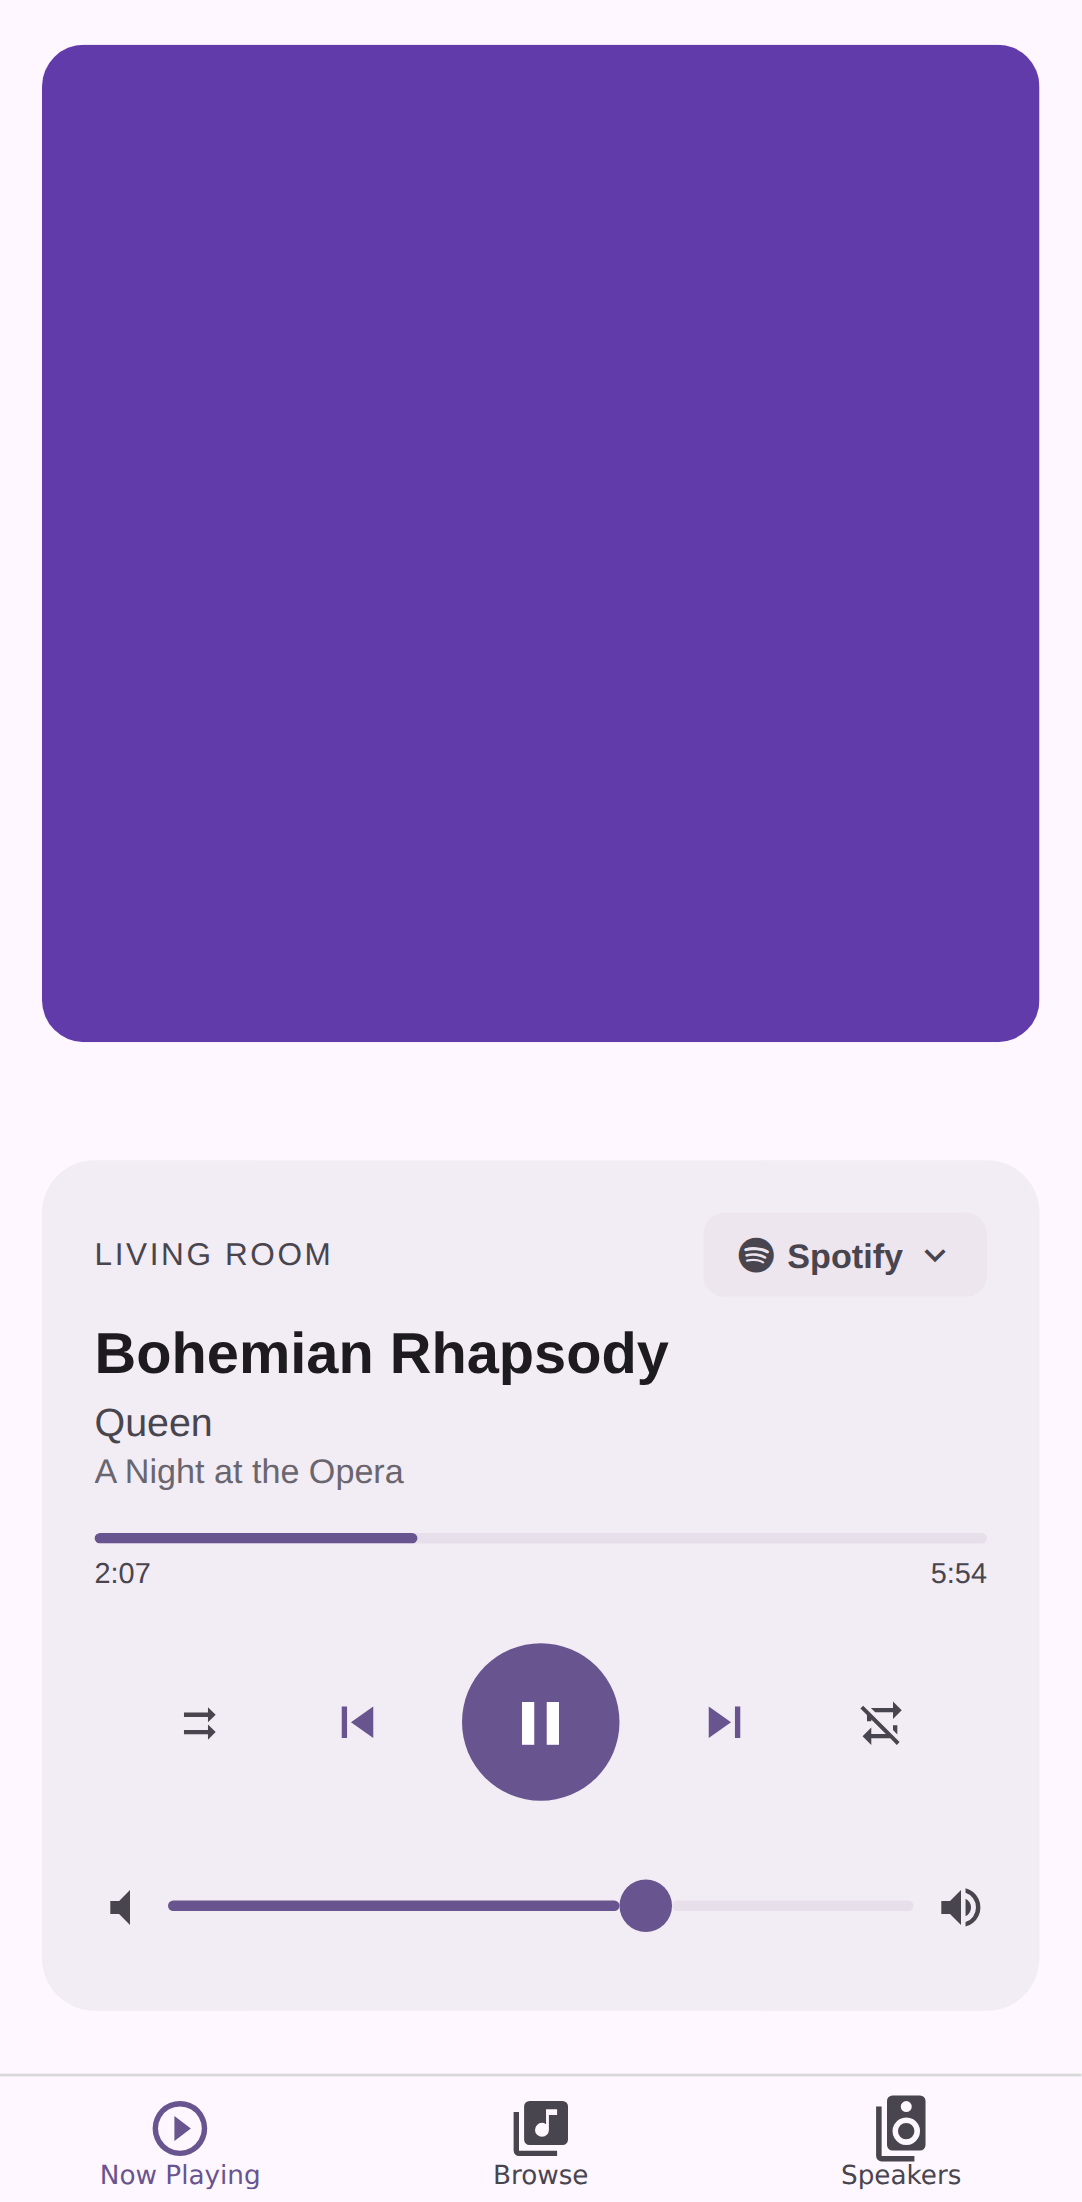
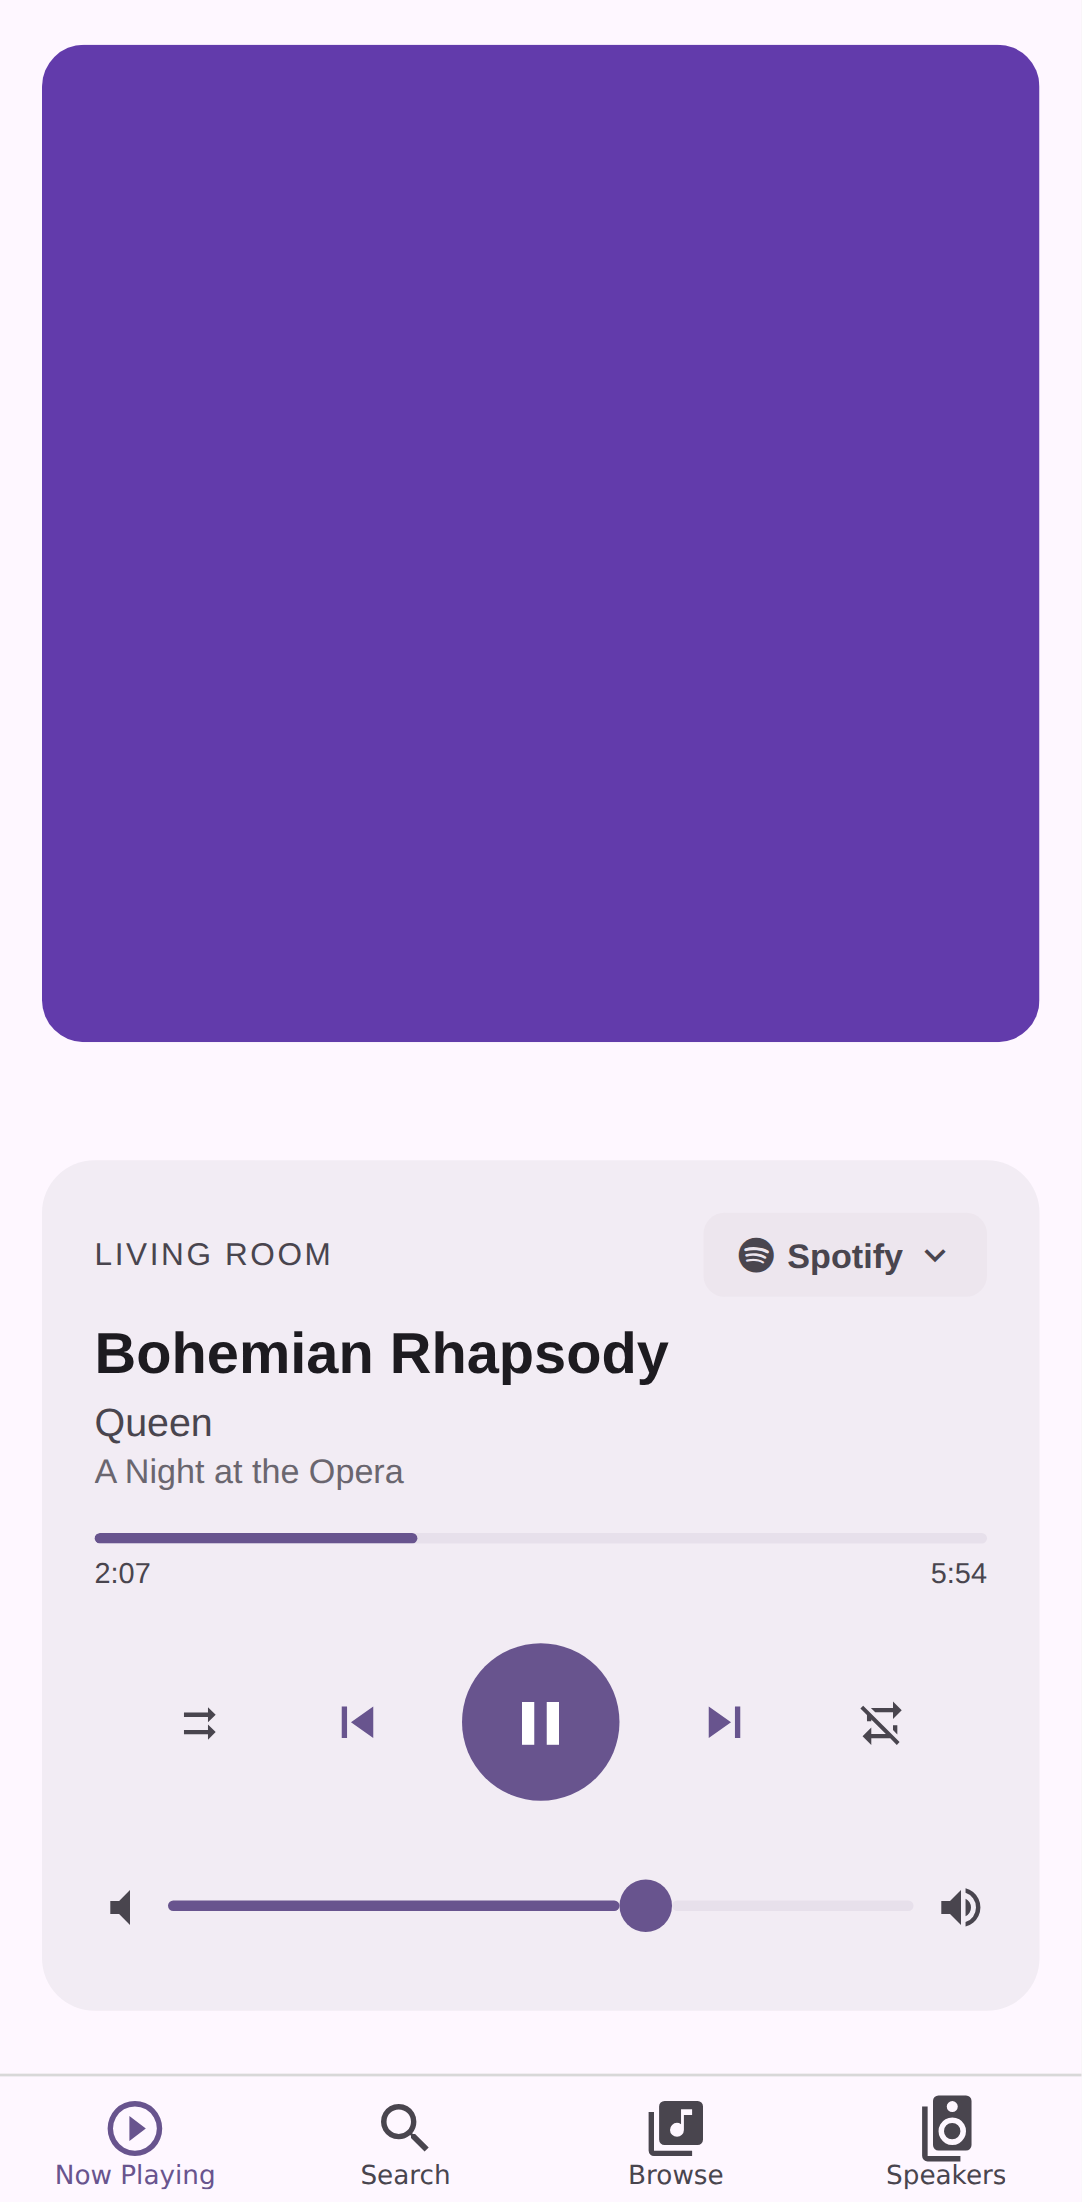
Add search screenshot; replace Browse with Search in README
- Handle search_media call_service in WS mock, returning 8 Queen tracks
- Enable the Search tab by adding a searchEntries entry to the player config
- Pre-seed search_history in localStorage so the search fires on mount
- Add search-mobile screenshot test (Tracks filter active, query "Queen")
- Replace Browse column with Search in the README screenshots table

https://claude.ai/code/session_016TZigo2N76jrDcSH937uuR

diff --git a/e2e/hass-mock.js b/e2e/hass-mock.js
@@ -111,6 +111,28 @@
       return;
     }
 
+    if (msg.type === 'call_service' && msg.service === 'search_media') {
+      setTimeout(function () {
+        self._reply(id, {
+          response: {
+            'media_player.living_room': {
+              result: [
+                { title: 'Bohemian Rhapsody', media_content_id: 'track:1', media_content_type: 'track', media_class: 'track', can_play: true, can_expand: false, thumbnail: '/api/mock-thumb/1' },
+                { title: 'We Will Rock You', media_content_id: 'track:2', media_content_type: 'track', media_class: 'track', can_play: true, can_expand: false, thumbnail: '/api/mock-thumb/2' },
+                { title: 'Somebody to Love', media_content_id: 'track:3', media_content_type: 'track', media_class: 'track', can_play: true, can_expand: false, thumbnail: '/api/mock-thumb/3' },
+                { title: 'Don\'t Stop Me Now', media_content_id: 'track:4', media_content_type: 'track', media_class: 'track', can_play: true, can_expand: false, thumbnail: '/api/mock-thumb/7' },
+                { title: 'We Are the Champions', media_content_id: 'track:5', media_content_type: 'track', media_class: 'track', can_play: true, can_expand: false, thumbnail: '/api/mock-thumb/4' },
+                { title: 'Under Pressure', media_content_id: 'track:6', media_content_type: 'track', media_class: 'track', can_play: true, can_expand: false, thumbnail: '/api/mock-thumb/5' },
+                { title: 'Radio Ga Ga', media_content_id: 'track:7', media_content_type: 'track', media_class: 'track', can_play: true, can_expand: false, thumbnail: '/api/mock-thumb/6' },
+                { title: 'I Want to Break Free', media_content_id: 'track:8', media_content_type: 'track', media_class: 'track', can_play: true, can_expand: false, thumbnail: '/api/mock-thumb/8' },
+              ],
+            },
+          },
+        });
+      }, 10);
+      return;
+    }
+
     if (msg.type === 'media_player/browse_media') {
       setTimeout(function () {
         self._reply(id, {
@@ -204,6 +226,9 @@
     token: 'fake_ll_token',
   }));
 
+  // Pre-seed search history so the search screen auto-fires on load.
+  localStorage.setItem('search_history', JSON.stringify(['Queen']));
+
   // @react-native-async-storage/async-storage on web writes directly to localStorage
   localStorage.setItem('app_config', JSON.stringify({
     mediaPlayers: [
@@ -214,7 +239,7 @@
         speakerGroupEntityId: null,
         maEntityId: null,
         lmsEntityId: null,
-        searchEntries: [],
+        searchEntries: [{ entity_id: 'media_player.living_room' }],
         mediaBrowserEntries: [],
       },
       {

diff --git a/e2e/screenshots.spec.ts b/e2e/screenshots.spec.ts
@@ -93,6 +93,23 @@ test('browse - mobile', async ({ page, isMobile }) => {
   await page.screenshot({ path: path.join(DIR, 'browse-mobile.png') });
 });
 
+// ── Search ────────────────────────────────────────────────────────────────────
+
+test('search - mobile', async ({ page, isMobile }) => {
+  test.skip(!isMobile, 'mobile only');
+  await goToPlayer(page);
+  await page.getByText('Search', { exact: true }).click();
+  await page.waitForURL('**/search**', { timeout: 5000 });
+  // search_history is pre-seeded with "Queen" so the search fires on mount.
+  // Wait for any result that isn't already in the Now Playing entity data.
+  await page.waitForSelector('text=We Will Rock You', { timeout: 5000 });
+  // Now activate the Tracks filter chip — results stay visible.
+  await page.getByText('Tracks', { exact: true }).click();
+  await page.waitForSelector('text=We Will Rock You', { timeout: 5000 });
+  await page.waitForTimeout(200);
+  await page.screenshot({ path: path.join(DIR, 'search-mobile.png') });
+});
+
 // ── Speakers ──────────────────────────────────────────────────────────────────
 
 test('speakers - mobile', async ({ page, isMobile }) => {

diff --git a/README.md b/README.md
@@ -6,9 +6,9 @@ A native mobile app (React Native + Expo) that replicates and extends the multi-
 
 ## Screenshots
 
-| Now Playing | Browse | Speakers |
+| Now Playing | Search | Speakers |
 |-------------|--------|----------|
-| ![Now Playing](docs/screenshots/now-playing-mobile.png) | ![Browse](docs/screenshots/browse-mobile.png) | ![Speakers](docs/screenshots/speakers-mobile.png) |
+| ![Now Playing](docs/screenshots/now-playing-mobile.png) | ![Search](docs/screenshots/search-mobile.png) | ![Speakers](docs/screenshots/speakers-mobile.png) |
 
 ## Features
 
